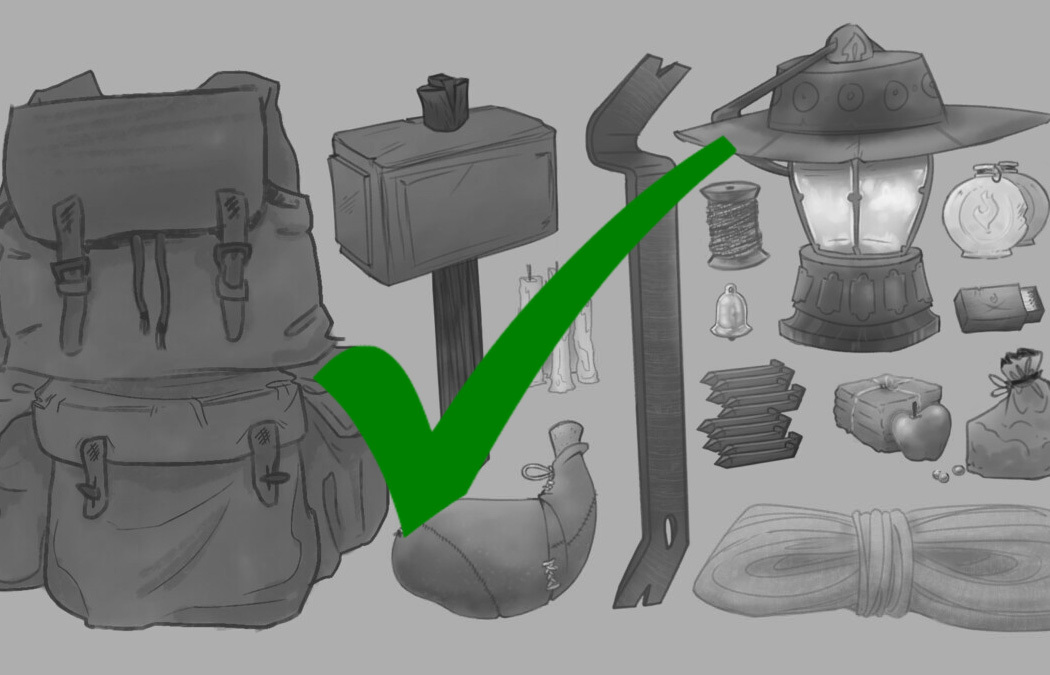
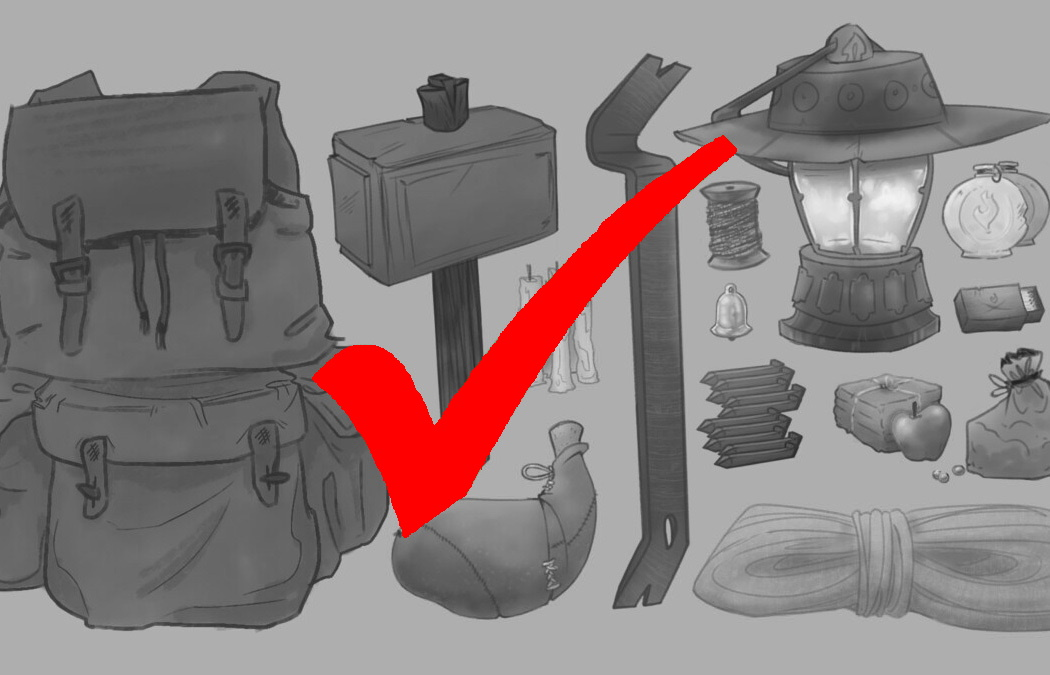
changed background, instruction modal alignment, printed variable display, etc...

Changed region(s): [[0.3048, 0.1867, 0.701, 0.8089]]

diff --git a/assets/js/tutorial.js b/assets/js/tutorial.js
@@ -88,31 +88,31 @@ $('#returnHome').on('click', function () {
 
 //Displays stats under video for user to see and read.
 var displayStats = function () {
-    var dispName = `<p class="stats"> Your character's Name is :  <span class="highlight">${playerName}</span></p>`;
-    var dispClass = `<p class="stats"> Your character's Class is :  <span class="highlight"> ${playerClass}</span></p>`;
-    var dispRace = `<p class="stats"> Your character's Race is :  <span class="highlight"> ${playerRace}</span></p>`;
-    var dispAlign = `<p class="stats"> Your character's alignment is :  <span class="highlight"> ${playerAlignment}</span></p>`;
-    var dispSex = `<p class="stats"> Your character's sex is :  <span class="highlight"> ${playerSex}</span></p>`;
+    var dispName = `<p class="stats varPrintText"> Your character's Name is :  <span class="varPrinter" style="text-decoration: none">${playerName}</span></p>`;
+    var dispClass = `<p class="stats varPrintText"> Your character's Class is :  <span class="varPrinter"> ${playerClass}</span></p>`;
+    var dispRace = `<p class="stats varPrintText"> Your character's Race is :  <span class="varPrinter"> ${playerRace}</span></p>`;
+    var dispAlign = `<p class="stats varPrintText"> Your character's alignment is :  <span class="varPrinter"> ${playerAlignment}</span></p>`;
+    var dispSex = `<p class="stats varPrintText"> Your character's sex is :  <span class="varPrinter"> ${playerSex}</span></p>`;
     var playerProf = playerProficiencies.join(' , ');
-    var dispProf = `<p class="stats"> Your character's proficiencies are :  <span class="highlight"> ${playerProf}</span></p>`;
-    var dispStr = `<p class="stats"> Your character's Strength is :  <span class="highlight"> ${playerStrength}</span></p>`;
-    var dispDex = `<p class="stats"> Your character's Dexterity is :  <span class="highlight"> ${playerDexterity}</span></p>`;
-    var dispCon = `<p class="stats"> Your character's Constitution is :  <span class="highlight"> ${playerConstitution}</span></p>`;
-    var dispInt = `<p class="stats"> Your character's Intelligence is :  <span class="highlight"> ${playerIntelligence}</span></p>`;
-    var dispWis = `<p class="stats"> Your character's Wisdom is :  <span class="highlight"> ${playerWisdom}</span></p>`;
-    var dispChar = `<p class="stats"> Your character's Charisma is :  <span class="highlight"> ${playerCharisma}</span></p>`;
+    var dispProf = `<p class="stats varPrintText"> Your character's proficiencies are :  <span class="varPrinter"> ${playerProf}</span></p>`;
+    var dispStr = `<p class="stats varPrintText"> Your character's Strength is :  <span class="varPrinter"> ${playerStrength}</span></p>`;
+    var dispDex = `<p class="stats varPrintText"> Your character's Dexterity is :  <span class="varPrinter"> ${playerDexterity}</span></p>`;
+    var dispCon = `<p class="stats varPrintText"> Your character's Constitution is :  <span class="varPrinter"> ${playerConstitution}</span></p>`;
+    var dispInt = `<p class="stats varPrintText"> Your character's Intelligence is :  <span class="varPrinter"> ${playerIntelligence}</span></p>`;
+    var dispWis = `<p class="stats varPrintText"> Your character's Wisdom is :  <span class="varPrinter"> ${playerWisdom}</span></p>`;
+    var dispChar = `<p class="stats varPrintText"> Your character's Charisma is :  <span class="varPrinter"> ${playerCharisma}</span></p>`;
     var playerEquip = playerEquipment.join(' , ');
-    var dispEquip = `<p class="stats"> Your character's Equipment is :  <span class="highlight"> ${playerEquip}</span></p>`;
+    var dispEquip = `<p class="stats varPrintText"> Your character's Equipment is :  <span class="varPrinter"> ${playerEquip}</span></p>`;
     if (playerSpells.length === 0) {
-        var dispSpells = `<p class="stats"> Your character doesn't know any spells</p>`;
+        var dispSpells = `<p class="stats varPrintText"> Your character doesn't know any spells</p>`;
     } else {
         var playerSpls = playerSpells.join(' , ');
-        var dispSpells = `<p class="stats"> Your character's Spells are :  <span class="highlight"> ${playerSpls}</span></p>`;
+        var dispSpells = `<p class="stats varPrintText"> Your character's Spells are :  <span class="varPrinter"> ${playerSpls}</span></p>`;
     }
     var playerTrts = playerTraits.join(' , ');
-    var dispTraits = `<p class="stats"> Your character's Traits are :  <span class="highlight">${playerTrts}</span></p>`;
-    var dispHp = `<p class="stats"> Your character's hitpoints are :  <span class="highlight"> ${playerHp}</span></p>`;
-    var dispSpeed = `<p class="stats"> Your character's speed is :  <span class="highlight"> ${playerSpeed}</span></p>`;
+    var dispTraits = `<p class="stats varPrintText"> Your character's Traits are :  <span class="varPrinter">${playerTrts}</span></p>`;
+    var dispHp = `<p class="stats varPrintText"> Your character's hitpoints are :  <span class="varPrinter"> ${playerHp}</span></p>`;
+    var dispSpeed = `<p class="stats varPrintText"> Your character's speed is :  <span class="varPrinter"> ${playerSpeed}</span></p>`;
     $('#character-stats').append(dispName);
     $('#character-stats').append(dispClass);
     $('#character-stats').append(dispRace);
@@ -132,5 +132,5 @@ var displayStats = function () {
     $('#character-stats').append(dispSpeed);
 };
 
-// ClassVideo();
+ClassVideo();
 displayStats();

diff --git a/assets/js/script.js b/assets/js/script.js
@@ -31,7 +31,7 @@ if (!checkIfAttStored) {
 
 load();
 displayStats();
-function load() {
+function load () {
     var pState = localStorage.getItem('pageState');
     PageAttributes = JSON.parse(pState);
 }
@@ -51,7 +51,7 @@ $(document).ready(function () {
 
 $('#burger').on('click', hamburgerMenu);
 //transforms hamburger menu the hard way :)
-function hamburgerMenu() {
+function hamburgerMenu () {
     if ($('.c-pan').hasClass('zero')) {
         $('.c-pan').css('transform', 'translateX(-1000px)');
         $('.c-pan').removeClass('zero');
@@ -61,12 +61,12 @@ function hamburgerMenu() {
     }
 }
 //each of the following functions hides its respective card on the index.html page until the previous page(s) has been marked completed
-function charCreate() {
+function charCreate () {
     if (PageAttributes.characterPage === 'complete') {
         $('#ccCard').css('background-image', 'url(./assets/images/player2done.jpg)');
         $('#ccCard').css('background-size', 'cover');
-        $('#ccCard').css('color', 'green');
-        $('#ccCard').css('border', '10px solid green');
+        $('#ccCard').css('color', 'red');
+        $('#ccCard').css('border', '10px solid red');
         $('#ccCard').on('click', function () {
             $('#ccCardAnchor').attr('href', '#');
         });
@@ -81,12 +81,12 @@ function charCreate() {
         PageAttributes.characterPage = '';
     }
 }
-function statCreate() {
+function statCreate () {
     if (PageAttributes.statsPage == 'complete') {
         $('#statCard').css('background-image', 'url(./assets/images/stats2done.jpg)');
         $('#statCard').css('background-size', 'cover');
-        $('#statCard').css('color', 'green');
-        $('#statCard').css('border', '10px solid green');
+        $('#statCard').css('color', 'red');
+        $('#statCard').css('border', '10px solid red');
         $('#statCard').on('click', function () {
             $('#statCardAnchor').attr('href', '#');
         });
@@ -101,13 +101,13 @@ function statCreate() {
         }
     }
 }
-function equipCreate() {
+function equipCreate () {
     if (PageAttributes.equipPage == 'complete') {
         $('#equipCard').css('background-image', 'url(./assets/images/equip2done.jpg)');
         $('#equipCard').css('background-size', 'cover');
         $('#equipCard').css('background-position', '0px -45px');
-        $('#equipCard').css('color', 'green');
-        $('#equipCard').css('border', '10px solid green');
+        $('#equipCard').css('color', 'red');
+        $('#equipCard').css('border', '10px solid red');
         $('#equipCard').on('click', function () {
             $('#equipCardAnchor').attr('href', '#');
         });
@@ -120,13 +120,13 @@ function equipCreate() {
         }
     }
 }
-function spellCreate() {
+function spellCreate () {
     if (PageAttributes.spellPage == 'complete') {
         $('#spellCard').css('background-image', 'url(./assets/images/spells2done.jpg)');
         $('#spellCard').css('background-size', 'cover');
         $('#spellCard').css('background-position', 'left');
-        $('#spellCard').css('color', 'green');
-        $('#spellCard').css('border', '10px solid green');
+        $('#spellCard').css('color', 'red');
+        $('#spellCard').css('border', '10px solid red');
         $('#spellCard').on('click', function () {
             $('#spellCardAnchor').attr('href', '#');
         });
@@ -151,10 +151,10 @@ $('#resetCharacter').on('click', function () {
 });
 
 // either displays stats or new player message
-function displayStats() {
+function displayStats () {
     CharacterAttributes = JSON.parse(localStorage.getItem('character', PageAttributes));
     if (PageAttributes.spellPage != 'complete') {
-        var NewUser = `<h5>You have not created a character yet! To begin your journey please click the character picture!</h5>`;
+        var NewUser = `<h5 class="white-text">You have not created a character yet! To begin your journey please click the character picture!</h5>`;
         $('#character-stats').append(NewUser);
     } else {
         var playerName = CharacterAttributes.name;

diff --git a/assets/css/style.css b/assets/css/style.css
@@ -1,19 +1,27 @@
 body {
     position: relative;
-    background-image: linear-gradient(
+    /* background-image: linear-gradient(
         to top left,
         rgb(73, 65, 65),
         rgb(173, 85, 85),
         rgb(173, 85, 85),
         rgb(60, 49, 49)
-    );
+    ); */
+    background-image: url(/assets/images/burning_city.jpg);
     background-size: cover;
     background-position: center;
     background-repeat: no-repeat;
     background-attachment: fixed;
     height: auto;
 }
-
+.varPrintText {
+    font-family: Cambria, Cochin, Georgia, Times, 'Times New Roman', serif;
+}
+.varPrinter {
+    font-weight: bold;
+    font-family: Cambria, Cochin, Georgia, Times, 'Times New Roman', serif;
+    text-transform: capitalize;
+}
 main {
     height: 100vh;
 }
@@ -43,7 +51,9 @@ main {
     transition: transform 0.3s ease-in-out;
     margin-right: 0.4rem;
 }
-
+.select-wrapper input.select-dropdown {
+    color: white;
+}
 ul img {
     margin-right: 1.3rem;
     margin-top: 15px;
@@ -109,7 +119,10 @@ nav {
 }
 
 #ccCard {
-    background-image: url(/DDCharacterCreation/assets/images/player2.jpeg);
+    /* For testing */
+    background-image: url(/assets/images/player2.jpeg);
+    /* For GitPages */
+    /* background-image: url(/DDCharacterCreation/assets/images/player2.jpeg); */
     background-size: cover;
     background-position: center;
     color: red;
@@ -120,7 +133,10 @@ nav {
 }
 
 #statCard {
-    background-image: url(/DDCharacterCreation/assets/images/stats2.jpeg);
+    /* For testing */
+    background-image: url(/assets/images/stats2.jpeg);
+    /* For GitPages */
+    /* background-image: url(/DDCharacterCreation/assets/images/stats2.jpeg); */
     background-position: center;
     background-size: cover;
     color: red;
@@ -130,7 +146,10 @@ nav {
 }
 
 #equipCard {
-    background-image: url(/DDCharacterCreation/assets/images/equip2.jpeg);
+    /* For testing */
+    background-image: url(/assets/images/equip2.jpeg);
+    /* For GitPages */
+    /* background-image: url(/DDCharacterCreation/assets/images/equip2.jpeg); */
     background-size: cover;
     background-position: 0 -45px;
     color: red;
@@ -140,7 +159,10 @@ nav {
 }
 
 #spellCard {
-    background-image: url(/DDCharacterCreation/assets/images/spells2.jpeg);
+    /* For testing */
+    background-image: url(/assets/images/spells2.jpeg);
+    /* For GitPages */
+    /* background-image: url(/DDCharacterCreation/assets/images/spells2.jpeg); */
     background-size: cover;
     background-position: center;
     background-repeat: no-repeat;
@@ -182,7 +204,7 @@ footer {
     font-size: 2rem;
     height: 50vh;
     text-align: center;
-    margin: 0 1rem;
+    overflow: hidden;
 }
 .modal-content h4 {
     text-align: center;
@@ -277,7 +299,6 @@ footer {
         margin-bottom: 1rem;
     }
 }
-
 
 @media screen and (max-width: 800px) {
     #vcs,

diff --git a/character.html b/character.html
@@ -129,7 +129,7 @@
                 </div>
 
                 <!-- input drop down menus -->
-                <div class="section col s12 l3">
+                <div class="col s12 l3">
                     <h5>Choose Your Own</h5>
                     <p>If you know what you'd like, enter your choices here:</p>
                     <div class="input-field col s12" id="nameUsedDisp">
@@ -144,7 +144,7 @@
                     </div>
                     <div class="input-field col s12" id="classMenuDisp">
                         <h6>Class</h6>
-                        <select id="classMenu" class="text-dark">
+                        <select id="classMenu">
                             <option value="barbarian">Barbarian</option>
                             <option value="bard">Bard</option>
                             <option value="cleric">Cleric</option>

diff --git a/index.html b/index.html
@@ -35,7 +35,7 @@
             <!-- Modal Structure -->
             <div id="modal1" class="modal modal-fixed-footer">
                 <div class="modal-content s11">
-                    <h4 class="s12">Welcome to the D&D Character Creation Tool!</h4>
+                    <h4 class="s12 center">Welcome to the D&D Character Creation Tool!</h4>
                     <p>Our tool has been created to be simple yet intuitive. By clicking on "Character" you will start your journey to creating a campaign ready character!</p>
                     <p>The white form you see on the screen will be populated with character sheet data as you progress through our step-by-step process!</p>
                     <p>At any point throughout the character creation process, feel free to return to the home page to check it out!</p>

diff --git a/tutorial.html b/tutorial.html
@@ -38,9 +38,9 @@
             <br />
             <div class="container" id="video-container">
                 <h3>Here is a video to help you with your new character's class!</h3>
-                <div id="video"></div>
+                <div class="col s6" id="video"></div>
             </div>
-            <div class="container character-stats" id="character-stats"></div>
+            <div class="container character-stats col s6" id="character-stats"></div>
             <div id="endContainer " class="container endContainer"></div>
             <div id="closingMessage">
                 <a
